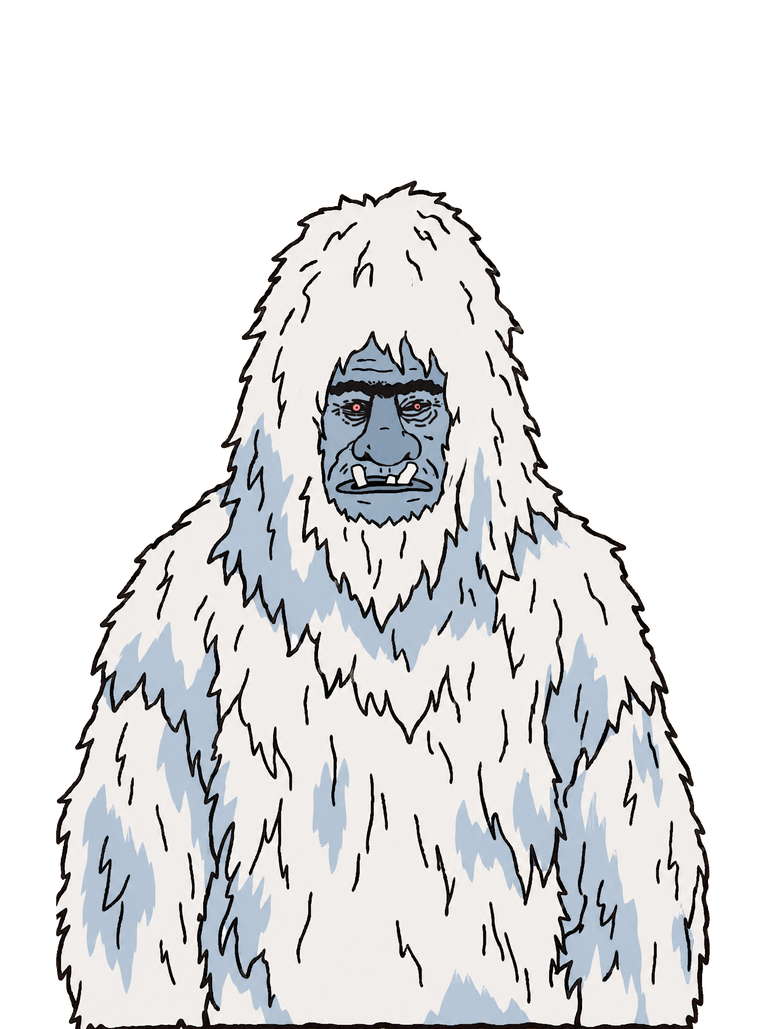
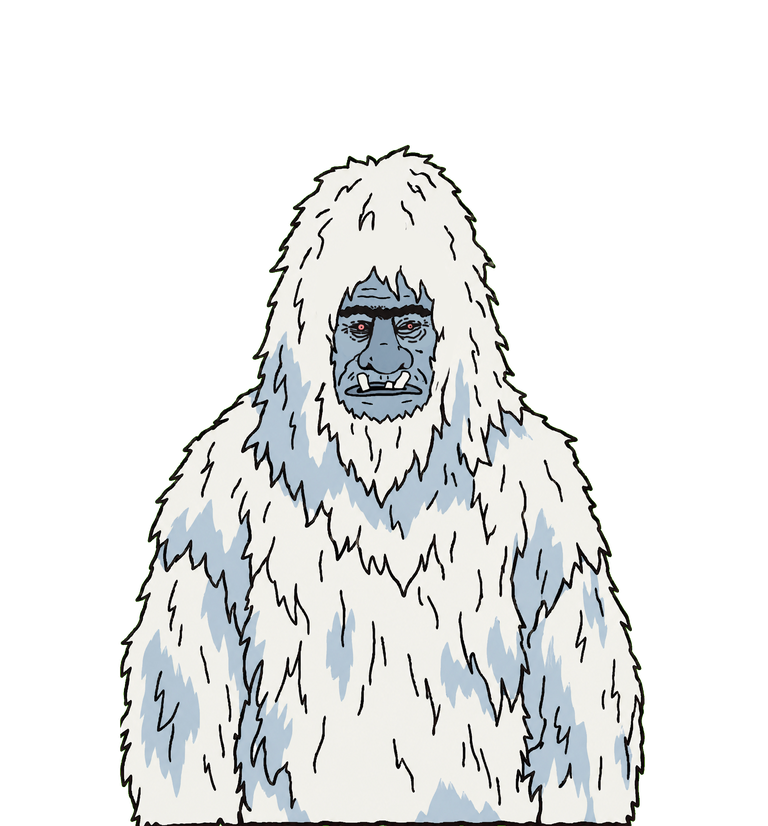
Йєті кусає (chomp) на «укусі» буньїпа; пози персонажів; спільна рамка трьох станів йєті

Changed region(s): [[0.0625, 0.1816, 0.9375, 1.0], [0.4688, 0.9988, 0.5, 1.0], [0.4062, 0.9988, 0.4375, 1.0]]

diff --git a/src/main.ts b/src/main.ts
@@ -5,7 +5,7 @@ import { REELS, ROWS, SYM, PAYS, PAY_HEADS, PAYING } from "./game/symbols";
 import { loadAssets, skinDom, url } from "./render/assets";
 import { app, board, layout } from "./render/scene";
 import { setTurbo, wait, PAUSE } from "./render/anim";
-import { playBook, say, face, round } from "./render/events";
+import { playBook, say, face, round, rest } from "./render/events";
 
 const $ = (id: string) => document.getElementById(id) as HTMLElement;
 applyI18n();
@@ -46,7 +46,10 @@ function updateBet() {
 $("betup").onclick = () => { betIdx = Math.min(betLevels.length - 1, betIdx + 1); updateBet(); };
 $("betdown").onclick = () => { betIdx = Math.max(0, betIdx - 1); updateBet(); };
 $("spin").onclick = () => play(burleyOn ? "burley" : "base");
-$("burley").onclick = e => { burleyOn = !burleyOn; (e.currentTarget as HTMLElement).setAttribute("aria-pressed", String(burleyOn)); };
+$("burley").onclick = e => {
+  burleyOn = !burleyOn; (e.currentTarget as HTMLElement).setAttribute("aria-pressed", String(burleyOn));
+  rest.k = burleyOn ? "fishing" : ""; face("k", rest.k);
+};
 $("turbo").onclick = e => { const b = e.currentTarget as HTMLElement, on = b.getAttribute("aria-pressed") !== "true"; b.setAttribute("aria-pressed", String(on)); setTurbo(on); };
 const confirmDlg = $("confirm") as HTMLDialogElement, rulesDlg = $("rules") as HTMLDialogElement;
 function askBuy(price: number, mode: Mode) {
@@ -64,7 +67,7 @@ addEventListener("keydown", e => { if (e.code === "Space" && !e.repeat && docume
 (async function init() {
   try { await document.fonts.load("20px 'Permanent Marker'"); await document.fonts.load("20px 'Patrick Hand'"); } catch {}
   for (let r = 0; r < REELS; r++) for (let c = 0; c < ROWS; c++) board[r][c] = PAYING[Math.floor(Math.random() * PAYING.length)];
-  await loadAssets(); skinDom(); face("d", false); face("k", false); buildPaytable();
+  await loadAssets(); skinDom(); face("d"); face("k"); buildPaytable();
   layout(); app.renderer.on("resize", layout);
   try {
     const a = await rgs.authenticate();

diff --git a/src/render/events.ts b/src/render/events.ts
@@ -27,17 +27,20 @@ const LINES: Record<string, [string, string]> = {
 };
 const HYPE = new Set(["fs", "chomp", "big", "huge", "stir"]);
 let bubbleTimer: ReturnType<typeof setTimeout>;
-export function face(who: string, hyped: boolean) {
+// пози: "" = спокій, "hyped" = руки вгору, "chomp" = йєті кусає, "fishing" = Kev з вудкою; нема файлу пози → спокій
+export const rest = {k: ""};  // поза Kev у спокої: main.ts ставить "fishing", поки ввімкнена прикормка
+export function face(who: string, pose = "") {
   const name = `characters/${who === "d" ? "yeti" : "kev"}`;
-  ($(who === "d" ? "img-d" : "img-k") as HTMLImageElement).src = (hyped && url(name + "_hyped")) || url(name) || "";
+  ($(who === "d" ? "img-d" : "img-k") as HTMLImageElement).src = (pose && url(`${name}_${pose}`)) || url(name) || "";
 }
+const calm = () => { face("d"); face("k", rest.k); };
 export function say(key: string) {
   const [who, text] = LINES[key], el = $(who === "d" ? "bubble-d" : "bubble-k");
   document.querySelectorAll(".bubble").forEach(b => b.classList.remove("on"));
-  face("d", false); face("k", false);
-  if (HYPE.has(key)) { face("d", true); face("k", true); }
+  calm();
+  if (HYPE.has(key)) { face("d", key === "chomp" && url("characters/yeti_chomp") ? "chomp" : "hyped"); face("k", "hyped"); }
   el.textContent = text; el.classList.add("on"); clearTimeout(bubbleTimer);
-  bubbleTimer = setTimeout(() => { el.classList.remove("on"); face("d", false); face("k", false); }, 2600);
+  bubbleTimer = setTimeout(() => { el.classList.remove("on"); calm(); }, 2600);
 }
 
 /* ---------------- обробники подій книги ---------------- */

diff --git a/src/render/assets.ts b/src/render/assets.ts
@@ -10,6 +10,7 @@ export const ASSETS = [
   "bg/background", "bg/background_portrait",
   ...SYMBOLS.map(c => `symbols/${c}`),
   "characters/yeti", "characters/yeti_hyped", "characters/kev", "characters/kev_hyped",
+  "characters/yeti_chomp", "characters/kev_fishing",  // йєті на «укусі» буньїпа; Kev, поки ввімкнена прикормка
   // поле (Pixi)
   "ui/frame", "ui/burley_spot", "ui/mult_badge", "ui/bunyip_eyes",
   // бейдж множника за рівнями: 1 = ×2–3, 2 = ×4–7, 3 = ×8–15, 4 = ×16–32; нема файлу рівня → ui/mult_badge
